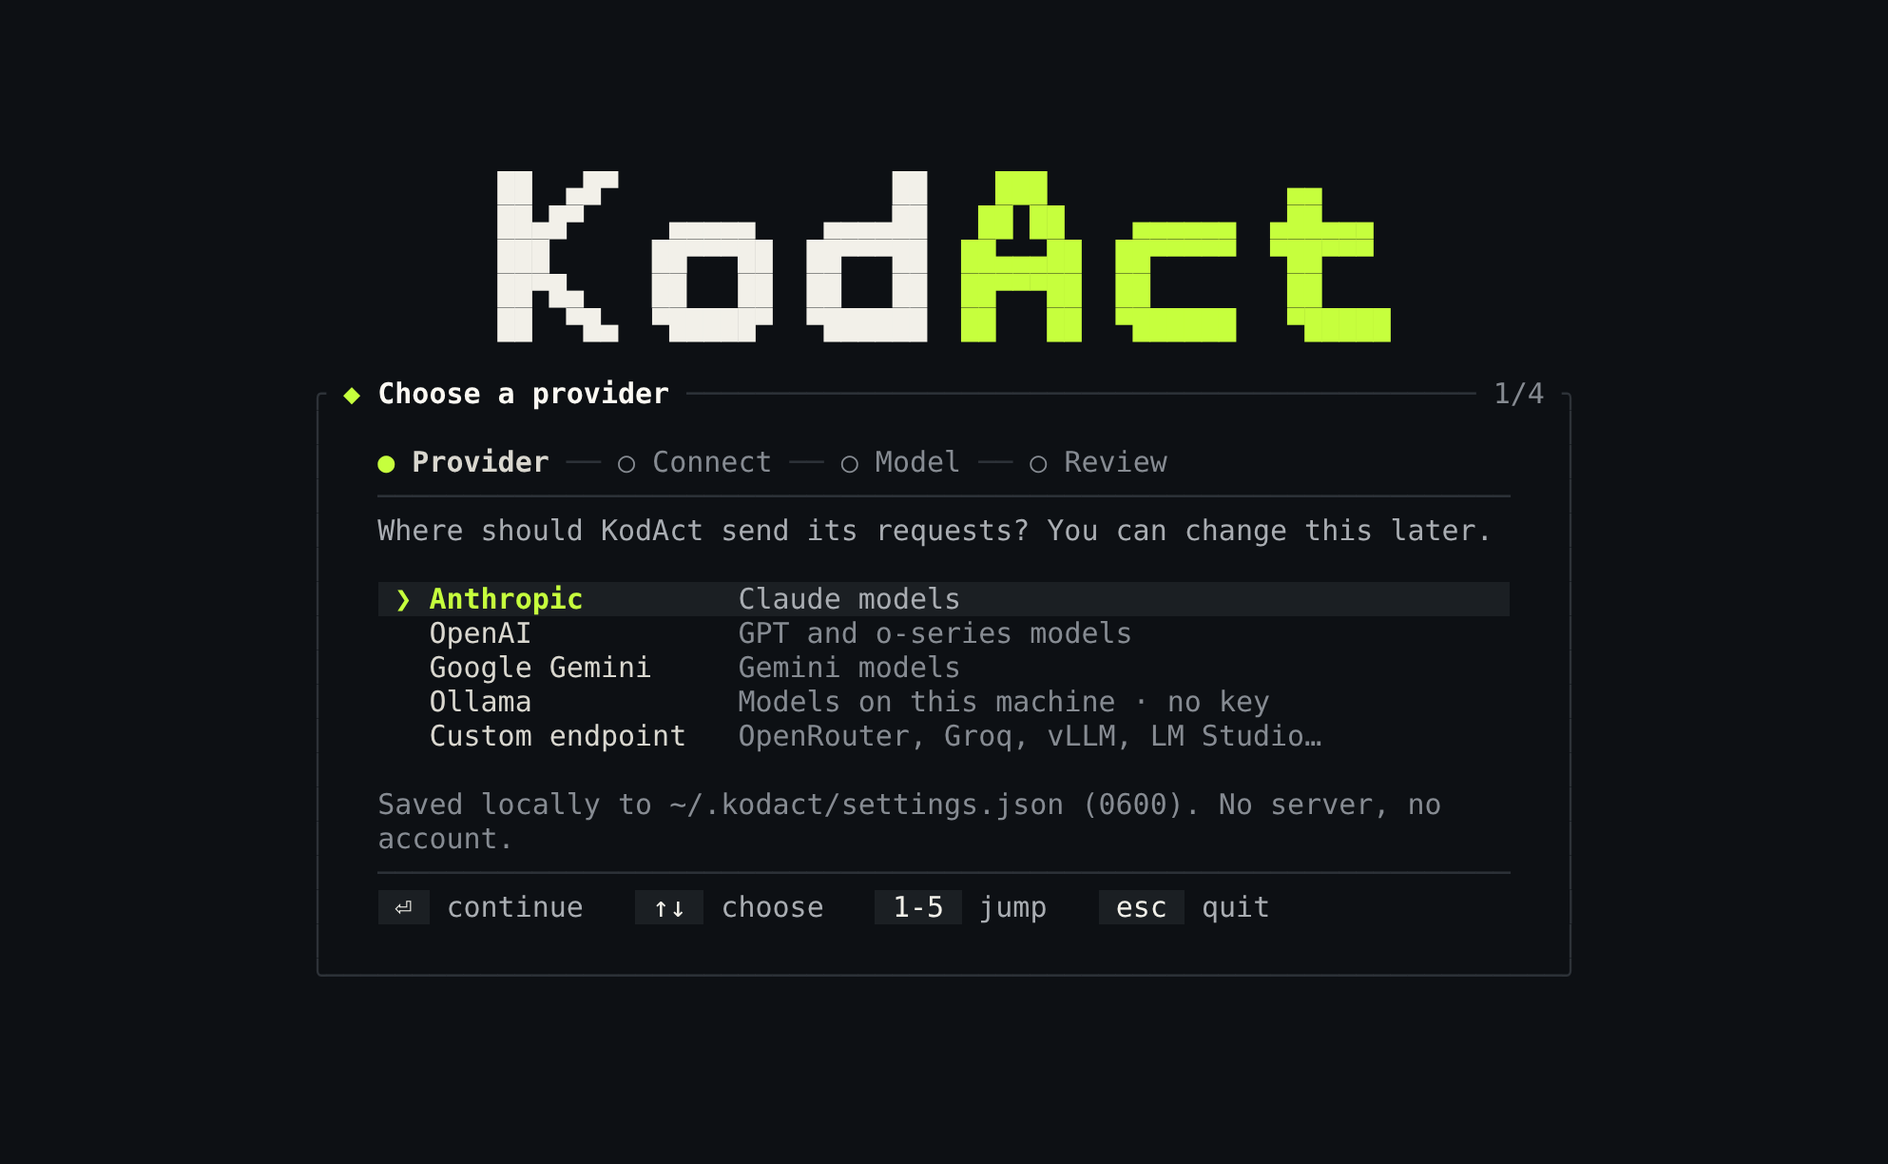
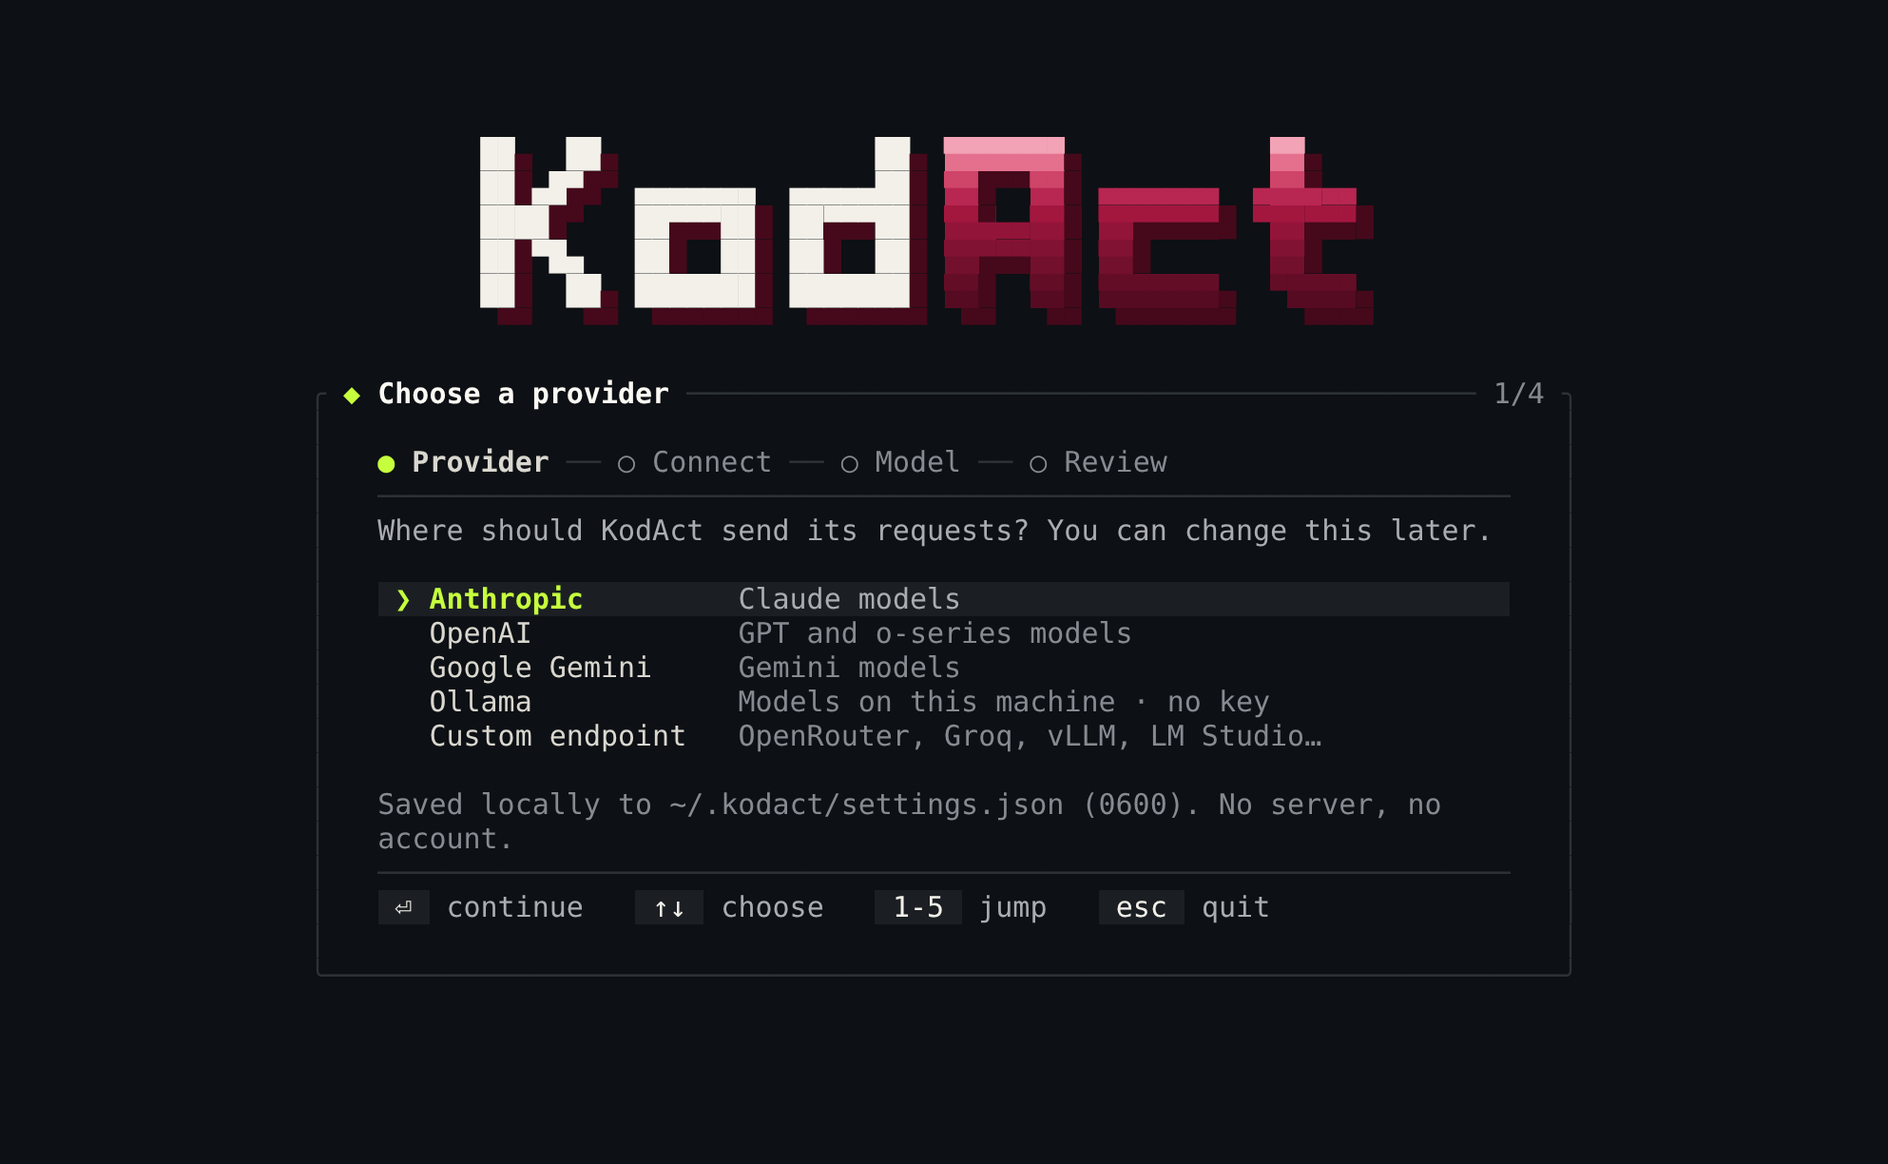
Wordmark: heavy 8-bit letters, "Act" in glossy burgundy over a burgundy shadow
The KodAct wordmark takes the "Heavy 8-bit" design picked from the burgundy
mockups: two-pixel strokes, square counters, a flat-topped A. "Kod" stays in
paper; "Act" is a ten-step burgundy gloss, one colour per pixel row (light
rose to deep wine), which half blocks draw exactly; every letter has a
one-pixel burgundy drop shadow. On a light background the gloss is a step
deeper and the shadow a pale rose; 256- and 16-colour terminals get the
nearest colours (magenta), and without colour the shape alone.

The default front page (Frame style) now heads with this wordmark (six rows)
instead of the thin compact letters, which it keeps for terminals too narrow
for it. Half-block drawing moves to brand.rs and front.rs uses it; wordmark
rows are padded to full width so rows centred one by one stay aligned.
The mark and the rest of the palette are unchanged (still lime).

Goals: compatibility / none (brand); wordmark drawn to the chosen design

Claude-Session: https://claude.ai/code/session_01XjPJN78SFVEmKsSDw2V2Fw

Changed region(s): [[0.2497, 0.0931, 0.7492, 0.3105]]

diff --git a/crates/kodact-cli/src/tui/brand.rs b/crates/kodact-cli/src/tui/brand.rs
@@ -1,4 +1,5 @@
-//! KodAct's name in the terminal: the KodAct wordmark and its mark (a step
+//! KodAct's name in the terminal: the KodAct wordmark (heavy 8-bit letters,
+//! "Act" in glossy burgundy over a burgundy drop shadow) and its mark (a step
 //! and a chevron, from code to impact, in lime), drawn as pixels in half blocks
 //! (each cell is two pixels stacked, so the pixels come out square), and the
 //! two screens they head: the front screen and the first-run card.
@@ -9,30 +10,47 @@ use ratatui::text::{Line, Span};
 use super::palette;
 use super::text::{width, Theme};
 
-/// The wordmark's letters, seven pixels wide and ten tall (five terminal
-/// rows): capitals K and A, lowercase o, d, c and t on the same baseline,
-/// after the logo's geometric letters (the A pointed, the t's foot curled).
-/// `.` is empty and `X` a letter.
+/// The wordmark's letters, heavy 8-bit: seven pixels wide and ten tall (five
+/// terminal rows), two-pixel strokes, square counters and a flat-topped A.
+/// Capitals K and A, lowercase o, d, c and t on one baseline. `.` is empty and
+/// `X` a letter.
 pub(super) const GLYPHS: [[&str; 10]; 6] = [
     // K
-    ["XX...XX", "XX..XX.", "XX.XX..", "XXXX...", "XXX....", "XXX....", "XXXX...", "XX.XX..", "XX..XX.", "XX...XX"],
+    ["XX...XX", "XX...XX", "XX..XX.", "XX.XX..", "XXXX...", "XXXX...", "XX.XX..", "XX..XX.", "XX...XX", "XX...XX"],
     // o
-    [".......", ".......", ".......", ".XXXXX.", "XXXXXXX", "XX...XX", "XX...XX", "XX...XX", "XXXXXXX", ".XXXXX."],
+    [".......", ".......", ".......", "XXXXXXX", "XXXXXXX", "XX...XX", "XX...XX", "XX...XX", "XXXXXXX", "XXXXXXX"],
     // d
-    [".....XX", ".....XX", ".....XX", ".XXXXXX", "XXXXXXX", "XX...XX", "XX...XX", "XX...XX", "XXXXXXX", ".XXXXXX"],
+    [".....XX", ".....XX", ".....XX", "XXXXXXX", "XXXXXXX", "XX...XX", "XX...XX", "XX...XX", "XXXXXXX", "XXXXXXX"],
     // A
-    ["..XXX..", "..XXX..", ".XX.XX.", ".XX.XX.", "XX...XX", "XXXXXXX", "XXXXXXX", "XX...XX", "XX...XX", "XX...XX"],
+    ["XXXXXXX", "XXXXXXX", "XX...XX", "XX...XX", "XX...XX", "XXXXXXX", "XXXXXXX", "XX...XX", "XX...XX", "XX...XX"],
     // c
-    [".......", ".......", ".......", ".XXXXXX", "XXXXXXX", "XX.....", "XX.....", "XX.....", "XXXXXXX", ".XXXXXX"],
+    [".......", ".......", ".......", "XXXXXXX", "XXXXXXX", "XX.....", "XX.....", "XX.....", "XXXXXXX", "XXXXXXX"],
     // t
-    [".......", ".XX....", ".XX....", "XXXXXX.", "XXXXXX.", ".XX....", ".XX....", ".XX....", ".XXXXXX", "..XXXXX"],
+    [".XX....", ".XX....", ".XX....", "XXXXXX.", "XXXXXX.", ".XX....", ".XX....", ".XX....", ".XXXXX.", "..XXXX."],
 ];
 
 /// Columns between letters.
 pub(super) const GAP: usize = 2;
 
-/// The wordmark's width in columns.
-pub const WORDMARK_W: usize = 6 * 7 + 5 * GAP;
+/// The letters' width in pixels (and columns), without the shadow.
+pub(super) const LETTERS_W: usize = 6 * 7 + 5 * GAP;
+
+/// The wordmark's width in columns: the letters and their shadow, one pixel to the right.
+pub const WORDMARK_W: usize = LETTERS_W + 1;
+
+/// The wordmark's height in pixels: ten, and the shadow's row under them (six terminal rows).
+const WORDMARK_H: usize = 11;
+
+/// "Act"'s gloss, one colour per pixel row: light rose at the top to deep wine at the foot.
+/// A terminal cell holds two pixel rows, each its own colour, so the ramp draws exactly.
+const GLOSS_DARK: [u32; 10] =
+    [0xf2a3b6, 0xe4708d, 0xcf4469, 0xb82652, 0xa3173f, 0x931439, 0x821233, 0x73102d, 0x640d27, 0x560b22];
+/// The same on a light background, a step deeper so it holds its contrast on paper.
+const GLOSS_LIGHT: [u32; 10] =
+    [0xc93e64, 0xb82652, 0xa3173f, 0x931439, 0x8a1538, 0x7e1233, 0x73102d, 0x690e29, 0x5e0c25, 0x540a21];
+
+/// One pixel: its colour (hex) and the ANSI colour for 16-colour terminals.
+pub(super) type Px = Option<(u32, Color)>;
 
 /// The short tagline, for the default front page.
 pub const SHORT_TAGLINE: &str = "From code to impact, with any model.";
@@ -40,23 +58,36 @@ pub const SHORT_TAGLINE: &str = "From code to impact, with any model.";
 /// The tagline under the wordmark.
 pub const TAGLINE: &str = "From code to impact: a coding agent on the model you choose.";
 
-/// The wordmark's pixel rows: `P` for "Kod" in paper, `G` for "Act" in lime,
-/// so the name reads as what it does.
-fn wordmark_rows() -> Vec<String> {
-    (0..10)
+/// The wordmark's pixels, [`WORDMARK_W`] by 11: "Kod" in paper (ink on a light
+/// background), "Act" in the burgundy gloss, and under every letter a burgundy
+/// shadow one pixel down and to the right.
+pub(super) fn wordmark_grid(light: bool) -> Vec<Vec<Px>> {
+    let (paper, gloss, act, shadow) = if light {
+        ((0x101214, Color::Black), GLOSS_LIGHT, Color::Magenta, (0xe8c9d1, Color::Gray))
+    } else {
+        ((0xf2f0e9, Color::White), GLOSS_DARK, Color::LightMagenta, (0x45091b, Color::DarkGray))
+    };
+    let letter = |x: isize, y: isize| -> Option<usize> {
+        if x < 0 || !(0..10).contains(&y) {
+            return None;
+        }
+        let (x, y) = (x as usize, y as usize);
+        let (g, gx) = (x / (7 + GAP), x % (7 + GAP));
+        (g < GLYPHS.len() && gx < 7 && GLYPHS[g][y].as_bytes()[gx] == b'X').then_some(g)
+    };
+    (0..WORDMARK_H)
         .map(|y| {
-            let mut row = String::new();
-            for (i, g) in GLYPHS.iter().enumerate() {
-                if i > 0 {
-                    row.push_str(&".".repeat(GAP));
-                }
-                row.extend(g[y].chars().map(|c| match c {
-                    'X' if i < 3 => 'P',
-                    'X' => 'G',
-                    other => other,
-                }));
-            }
-            row
+            (0..WORDMARK_W)
+                .map(|x| {
+                    let (xi, yi) = (x as isize, y as isize);
+                    match letter(xi, yi) {
+                        Some(g) if g < 3 => Some(paper),
+                        Some(_) => Some((gloss[y], act)),
+                        None if letter(xi - 1, yi - 1).is_some() => Some(shadow),
+                        None => None,
+                    }
+                })
+                .collect()
         })
         .collect()
 }
@@ -87,15 +118,12 @@ pub fn mark_rows() -> Vec<String> {
     MARK.iter().map(|r| r.replace('#', "M")).collect()
 }
 
-/// The inks for a light or dark background: hex, and the ANSI colour for
-/// 16-colour terminals. Paper letters (ink on a light background), and lime
-/// for "Act" and the mark, deepened to an olive that reads on a light background.
+/// The mark's ink for a light or dark background: hex, and the ANSI colour for
+/// 16-colour terminals. Lime, deepened to an olive that reads on a light background.
 fn ink(c: char, light: bool) -> Option<(u32, Color)> {
     Some(match (c, light) {
-        ('P', false) => (0xf2f0e9, Color::White),
-        ('P', true) => (0x101214, Color::Black),
-        ('G' | 'M', false) => (0xc6ff3d, Color::LightGreen),
-        ('G' | 'M', true) => (0x4a7200, Color::Green),
+        ('M', false) => (0xc6ff3d, Color::LightGreen),
+        ('M', true) => (0x4a7200, Color::Green),
         _ => return None,
     })
 }
@@ -142,9 +170,53 @@ pub(super) fn fg(c: Color) -> Style {
     }
 }
 
-/// The wordmark: [`WORDMARK_W`] columns by 5 rows.
+/// The wordmark: [`WORDMARK_W`] columns by 6 rows.
 pub fn wordmark(t: &Theme) -> Vec<Line<'static>> {
-    sprite(&wordmark_rows(), t)
+    // Every row padded to the full width, so a row centred on its own stays aligned with the others.
+    let mut rows = half_blocks(&wordmark_grid(t.light), t);
+    for l in &mut rows {
+        let w: usize = l.spans.iter().map(|s| width(&s.content)).sum();
+        l.spans.push(Span::raw(" ".repeat(WORDMARK_W.saturating_sub(w))));
+    }
+    rows
+}
+
+/// A colour of the logo for this terminal: none without colour.
+pub(super) fn px_ink(hex: u32, ansi: Color, t: &Theme) -> Color {
+    if !t.color {
+        return Color::Reset;
+    }
+    palette::ink(hex, t.depth, ansi)
+}
+
+/// A grid of pixels in half blocks: one line per two rows, each pixel its own colour.
+pub(super) fn half_blocks(grid: &[Vec<Px>], t: &Theme) -> Vec<Line<'static>> {
+    let colour = |p: Px| p.map(|(hex, ansi)| px_ink(hex, ansi, t));
+    let w = grid.iter().map(Vec::len).max().unwrap_or(0);
+    let mut out = vec![];
+    for pair in grid.chunks(2) {
+        let mut spans: Vec<Span<'static>> = vec![];
+        for x in 0..w {
+            let u = colour(pair[0].get(x).copied().flatten());
+            let l = colour(pair.get(1).and_then(|r| r.get(x).copied().flatten()));
+            let (text, style) = match (u, l) {
+                (None, None) => (" ", Style::default()),
+                (Some(u), None) => ("▀", fg(u)),
+                (None, Some(l)) => ("▄", fg(l)),
+                (Some(u), Some(l)) if u == l => ("█", fg(u)),
+                (Some(u), Some(l)) => ("▀", fg(u).bg(l)),
+            };
+            match spans.last_mut() {
+                Some(s) if s.style == style => s.content.to_mut().push_str(text),
+                _ => spans.push(Span::styled(text.to_string(), style)),
+            }
+        }
+        while spans.last().is_some_and(|s| s.content.trim().is_empty() && s.style.bg.is_none()) {
+            spans.pop();
+        }
+        out.push(Line::from(spans));
+    }
+    out
 }
 
 /// The mark, [`MARK_W`] columns wide and six rows tall.
@@ -451,27 +523,35 @@ mod tests {
     const DARK: Theme = Theme { color: true, light: false, accent: None, depth: Depth::True };
 
     #[test]
-    fn the_wordmark_is_kod_in_paper_and_act_in_lime() {
-        let rows = wordmark_rows();
-        assert_eq!(rows.len(), 10);
-        assert!(rows.iter().all(|r| r.chars().count() == WORDMARK_W));
-        assert!(
-            rows.iter().flat_map(|r| r.chars()).all(|c| c == '.' || ink(c, false).is_some()),
-            "every pixel has an ink"
-        );
+    fn the_wordmark_is_heavy_8_bit_kod_in_paper_act_in_glossy_burgundy() {
+        let grid = wordmark_grid(false);
+        assert_eq!(grid.len(), WORDMARK_H, "ten pixel rows and the shadow's");
+        assert!(grid.iter().all(|r| r.len() == WORDMARK_W));
         let m = wordmark(&DARK);
-        assert_eq!(m.len(), 5, "five rows");
+        assert_eq!(m.len(), 6, "six rows");
         assert!(m.iter().all(|l| l.spans.iter().map(|s| width(&s.content)).sum::<usize>() <= WORDMARK_W));
+        let hex = |x: usize, y: usize| grid[y][x].map(|(h, _)| h);
+        // Heavy strokes: the K's stem is two pixels wide, top to bottom, in paper.
+        assert!((0..10).all(|y| hex(0, y) == Some(0xf2f0e9) && hex(1, y) == Some(0xf2f0e9)));
+        // A flat-topped A (the fourth letter): its whole top row is lit.
+        let a = 3 * (7 + GAP);
+        assert!((a..a + 7).all(|x| grid[0][x].is_some()), "flat top");
+        // "Act" shines: each pixel row of the A's stem is a step down the gloss, light to deep.
+        let stem: Vec<u32> = (0..10).map(|y| hex(a, y).unwrap()).collect();
+        assert_eq!(stem, GLOSS_DARK.to_vec());
+        // The shadow: one pixel down and right of a letter, where no letter is.
+        assert_eq!(hex(2, 1), Some(0x45091b), "under the K's stem");
+        assert_eq!(hex(WORDMARK_W - 1, 10), None, "nothing past the last shadow");
+        assert!(grid[10].iter().any(|p| p.map(|(h, _)| h) == Some(0x45091b)), "the shadow's own row");
+        // On a light background the paper letters are ink and the gloss deeper.
+        let light = wordmark_grid(true);
+        assert_eq!(light[0][0].map(|(h, _)| h), Some(0x101214));
+        assert_eq!(light[5][a].map(|(h, _)| h), Some(GLOSS_LIGHT[5]));
+        // Drawn in half blocks, each cell keeps both of its pixels' colours.
         let cells = |l: &Line| l.spans.iter().flat_map(|s| s.content.chars().map(move |_| s.style)).collect::<Vec<_>>();
-        let paper = Some(Color::Rgb(0xf2, 0xf0, 0xe9));
-        let lime = Some(Color::Rgb(0xc6, 0xff, 0x3d));
-        // The K's stem, at the left, in paper; the t's stem, at the right, in lime.
-        assert_eq!(cells(&m[0])[0].fg, paper);
-        assert!(cells(&m[4]).iter().rev().take(6).any(|s| s.fg == lime || s.bg == lime), "Act in lime");
-        // On a light background the paper letters are ink, and "Act" olive.
-        let light = wordmark(&Theme { light: true, ..DARK });
-        assert_eq!(cells(&light[0])[0].fg, Some(Color::Rgb(0x10, 0x12, 0x14)));
-        assert!(cells(&light[4]).iter().any(|s| s.fg == Some(Color::Rgb(0x4a, 0x72, 0x00))));
+        let row0 = cells(&m[0]);
+        assert_eq!(row0[a].fg, Some(Color::Rgb(0xf2, 0xa3, 0xb6)));
+        assert_eq!(row0[a].bg, Some(Color::Rgb(0xe4, 0x70, 0x8d)));
     }
 
     #[test]
@@ -531,7 +611,7 @@ mod tests {
         // Wide: the wordmark, centred across and down.
         let wide = plain(&welcome(&DARK, &w, 100, 40));
         let art: Vec<&String> = wide.iter().filter(|l| l.contains('█') || l.contains('▀') || l.contains('▄')).collect();
-        assert_eq!(art.len(), 5);
+        assert_eq!(art.len(), 6);
         let lead = art[0].len() - art[0].trim_start().len();
         assert_eq!(lead, (100 - WORDMARK_W) / 2);
         let first = wide.iter().position(|l| !l.trim().is_empty()).unwrap();

diff --git a/crates/kodact-cli/src/tui/front.rs b/crates/kodact-cli/src/tui/front.rs
@@ -5,14 +5,12 @@
 use ratatui::style::{Color, Style};
 use ratatui::text::{Line, Span};
 
-use super::brand::{centred, GAP, GLYPHS, MARK_W, SHORT_TAGLINE, TAGLINE, WORDMARK_W};
+use super::brand::{
+    centred, half_blocks, px_ink as ink, Px, GAP, GLYPHS, LETTERS_W, MARK_W, SHORT_TAGLINE, TAGLINE, WORDMARK_W,
+};
 use super::look::Look;
-use super::palette;
 use super::render::fit;
 use super::text::{width, Theme};
-
-/// One pixel: its colour (hex) and the ANSI colour for 16-colour terminals.
-type Px = Option<(u32, Color)>;
 
 /// How the wordmark is drawn.
 #[derive(Debug, Clone, Copy, PartialEq, Eq)]
@@ -60,44 +58,6 @@ pub struct FrontPage {
     pub dock: bool,
     /// The page starts at the top (under the header) instead of centred down the screen.
     pub top: bool,
-}
-
-fn ink(hex: u32, ansi: Color, t: &Theme) -> Color {
-    if !t.color {
-        return Color::Reset;
-    }
-    palette::ink(hex, t.depth, ansi)
-}
-
-/// A grid of pixels in half blocks: one line per two rows.
-fn half_blocks(grid: &[Vec<Px>], t: &Theme) -> Vec<Line<'static>> {
-    let colour = |p: Px| p.map(|(hex, ansi)| ink(hex, ansi, t));
-    let fg = |c: Color| if c == Color::Reset { Style::default() } else { Style::default().fg(c) };
-    let w = grid.iter().map(Vec::len).max().unwrap_or(0);
-    let mut out = vec![];
-    for pair in grid.chunks(2) {
-        let mut spans: Vec<Span<'static>> = vec![];
-        for x in 0..w {
-            let u = pair[0].get(x).copied().flatten().and_then(|p| colour(Some(p)));
-            let l = pair.get(1).and_then(|r| r.get(x).copied().flatten()).and_then(|p| colour(Some(p)));
-            let (text, style) = match (u, l) {
-                (None, None) => (" ", Style::default()),
-                (Some(u), None) => ("▀", fg(u)),
-                (None, Some(l)) => ("▄", fg(l)),
-                (Some(u), Some(l)) if u == l => ("█", fg(u)),
-                (Some(u), Some(l)) => ("▀", fg(u).bg(l)),
-            };
-            match spans.last_mut() {
-                Some(s) if s.style == style => s.content.to_mut().push_str(text),
-                _ => spans.push(Span::styled(text.to_string(), style)),
-            }
-        }
-        while spans.last().is_some_and(|s| s.content.trim().is_empty() && s.style.bg.is_none()) {
-            spans.pop();
-        }
-        out.push(Line::from(spans));
-    }
-    out
 }
 
 /// The compact wordmark's letters: one-pixel strokes, eight pixels tall (four
@@ -175,7 +135,7 @@ fn wordmark_grid(look: Letters, light: bool) -> Vec<Vec<Px>> {
         (0x628512, Color::Green),
     ];
     let step = 7 + GAP;
-    let base = 6 * 7 + 5 * GAP;
+    let base = LETTERS_W;
     let (w, h) = if look == Letters::Shadow { (base + 1, 11) } else { (base, 10) };
     let mut letter = vec![vec![None::<usize>; w]; h];
     for (gi, rows) in GLYPHS.iter().enumerate() {
@@ -220,7 +180,7 @@ pub fn wordmark(t: &Theme, look: Letters) -> Vec<Line<'static>> {
 
 /// The wordmark's width in columns.
 pub fn wordmark_w(look: Letters) -> usize {
-    WORDMARK_W + usize::from(look == Letters::Shadow)
+    LETTERS_W + usize::from(look == Letters::Shadow)
 }
 
 /// KodAct's mark (a step and a chevron in lime): [`MARK_W`] columns by 6 rows.
@@ -385,20 +345,22 @@ fn small_name(t: &Theme) -> Vec<Span<'static>> {
     super::brand::wordmark_text(t).spans
 }
 
-/// 1 · Essentials: the compact wordmark alone, centred (four rows), "From code to impact." under them, then the
+/// 1 · Essentials: the wordmark alone, centred (six rows; the compact one, four rows, when narrower), "From code to impact." under them, then the
 /// input (the frame style's panel, which names the mode, the model and where
 /// it runs) and one line to resume the last conversation. A server that failed
 /// to start says so; everything else (the folder, the branch, the version) is
 /// on the status line.
 fn frame(t: &Theme, info: &FrontInfo, cols: usize) -> FrontPage {
     let one = compact_w();
-    let (mut above, lw) = if cols < one + 4 {
+    let (mut above, lw) = if cols >= WORDMARK_W + 4 {
+        // The name alone, in the wordmark: no mark beside it.
+        (centre_block(super::brand::wordmark(t), WORDMARK_W, cols), WORDMARK_W)
+    } else if cols >= one + 4 {
+        // Narrower: the compact letters.
+        (centre_block(compact_wordmark(t), one, cols), one)
+    } else {
         // Too narrow for the letters: the name in one row.
         (vec![centred(Line::from(small_name(t)), cols)], 6)
-    } else {
-        // The name alone: no mark beside it.
-        let (logo, lw) = (compact_wordmark(t), one);
-        (centre_block(logo, lw, cols), lw)
     };
     // The panel at least as wide as the name above it, so the logo never overhangs the input.
     let fw = cols.saturating_sub(8).clamp(cols.min(20), 96.max(lw));
@@ -756,11 +718,13 @@ mod tests {
         }
         let frame = plain(&front_page(&DARK, Look::Frame, &info(), 120).above).join("\n");
         assert!(!frame.contains("Welcome to"), "the name speaks for itself");
-        // The compact name: four rows, whether or not there is history.
+        // The wordmark: six rows, whether or not there is history; the compact name, four rows,
+        // where the wordmark doesn't fit.
         let first = FrontInfo { recent: vec![], ..info() };
         let art = |p: &FrontPage| plain(&p.above).iter().filter(|l| l.contains(['▀', '▄', '█'])).count();
-        assert_eq!(art(&front_page(&DARK, Look::Frame, &first, 140)), 4, "four rows on a first run");
-        assert_eq!(art(&front_page(&DARK, Look::Frame, &info(), 140)), 4, "and after");
+        assert_eq!(art(&front_page(&DARK, Look::Frame, &first, 140)), 6, "six rows on a first run");
+        assert_eq!(art(&front_page(&DARK, Look::Frame, &info(), 140)), 6, "and after");
+        assert_eq!(art(&front_page(&DARK, Look::Frame, &info(), WORDMARK_W + 3)), 4, "compact when narrower");
         assert!(front_page(&DARK, Look::Frame, &first, 140).above.iter().all(|l| line_w(l) <= 140));
         // A first run's suggestions fit the panel's text column at every width: the second
         // one was cut mid-word ("/init writes KODA") by the window's edge at 60 columns.
@@ -812,7 +776,7 @@ mod tests {
             let art: Vec<&Line> =
                 above.iter().filter(|l| plain(&[(*l).clone()])[0].contains(['▀', '▄', '█'])).collect();
             let w = art.iter().map(|l| line_w(l)).max().unwrap();
-            assert!(w <= (140 + compact_w()) / 2 + 1, "only the letters, centred: {w}");
+            assert!(w <= (140 + WORDMARK_W) / 2 + 1, "only the letters, centred: {w}");
         }
     }
 }
